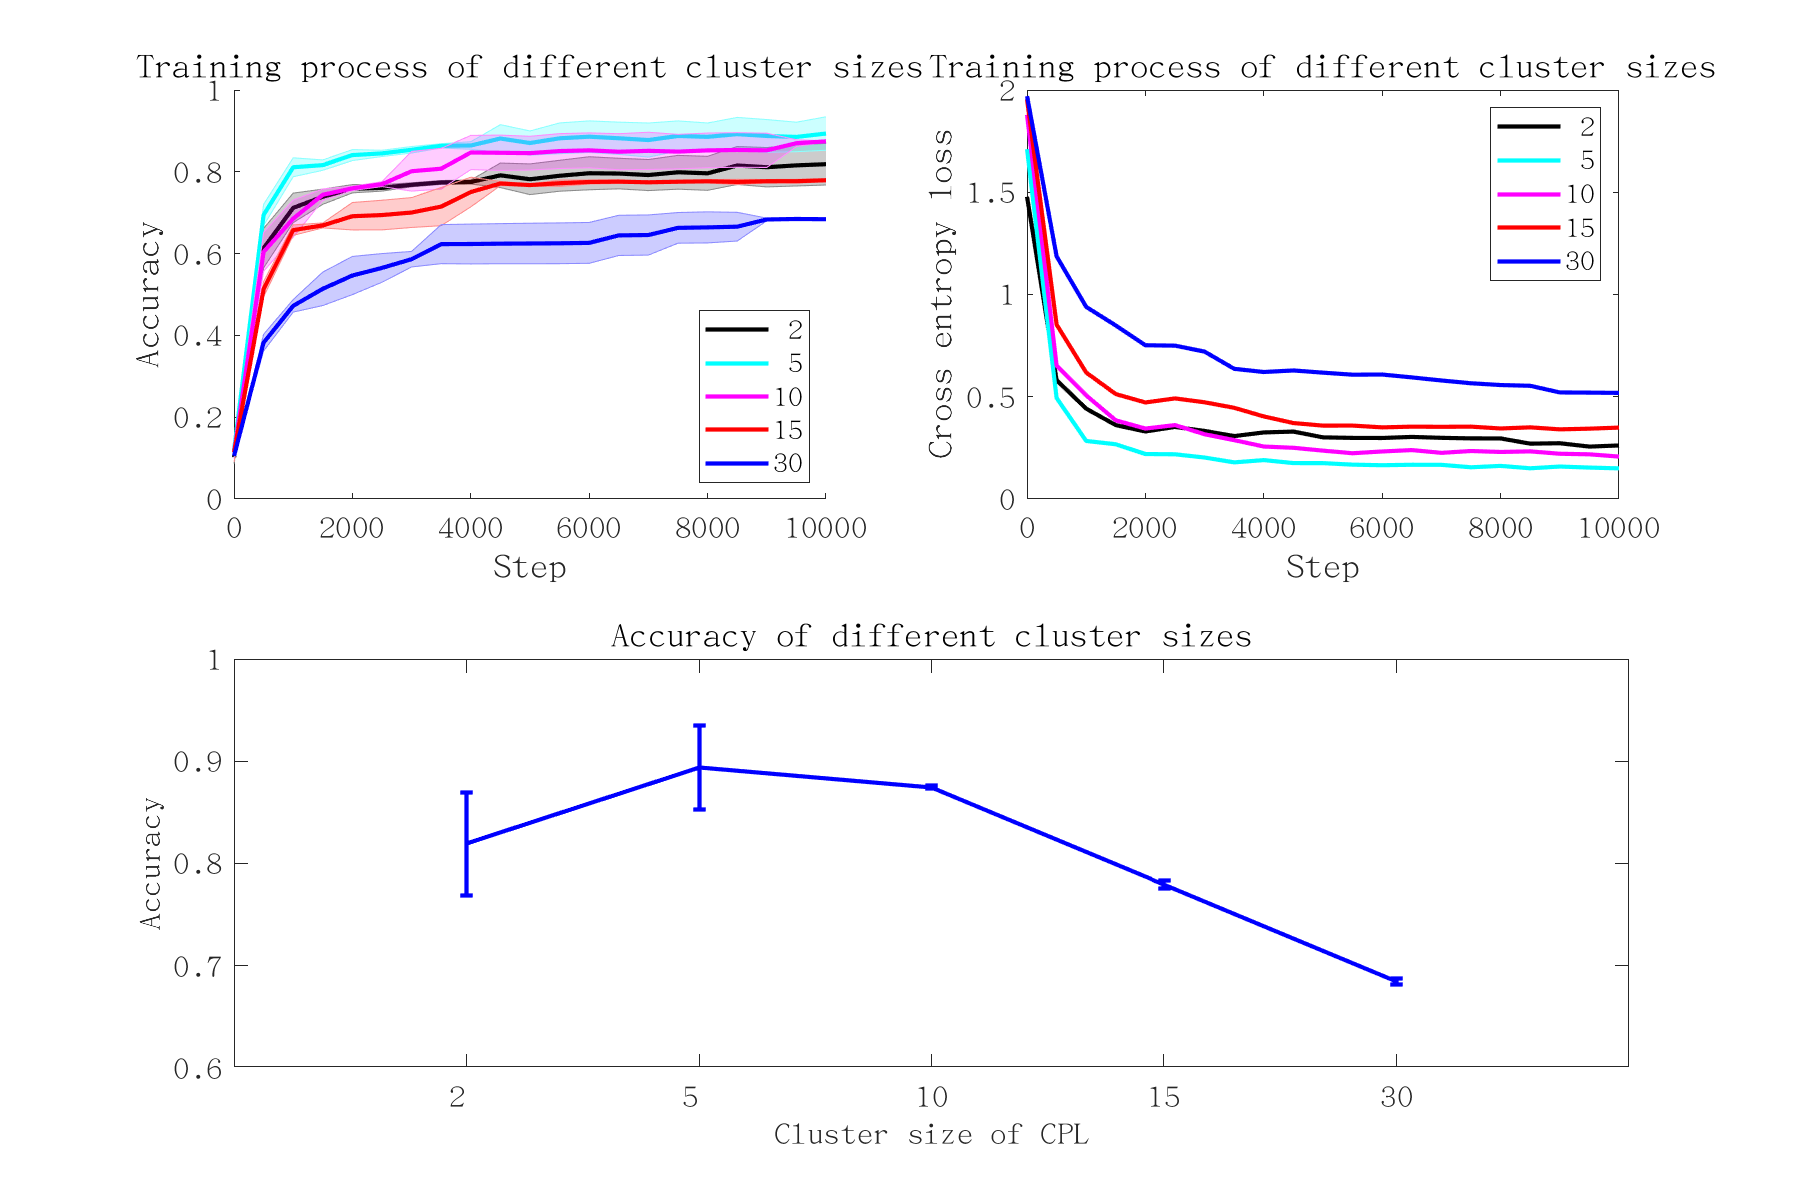
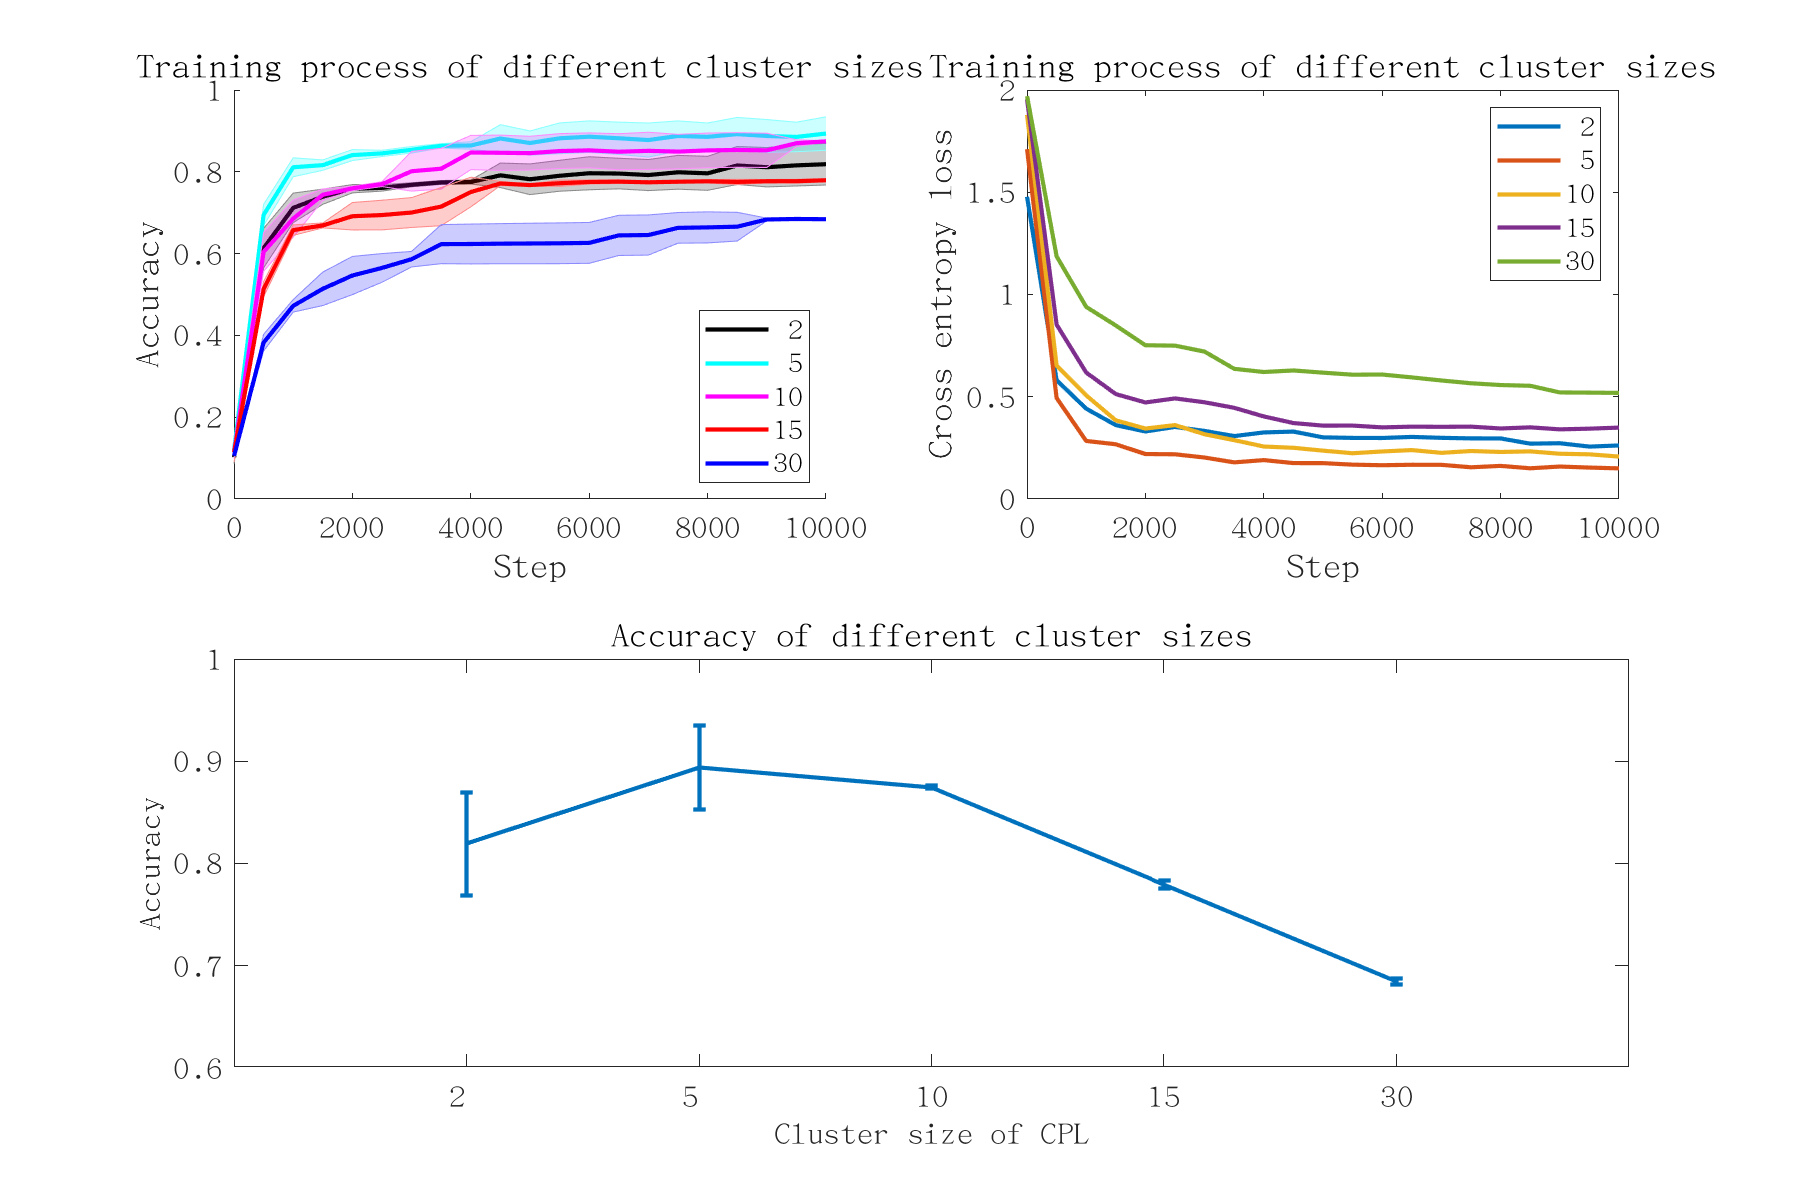
add

diff --git a/experiment/mnist/train_history/plot_cluster_size.m b/experiment/mnist/train_history/plot_cluster_size.m
@@ -51,7 +51,7 @@ set(gca, "FontSize", fig_para.fontsize);
 title("Training process of different cluster sizes");
 subplot(2,2,2);
 for i=1:len
-    plot(step_index,loss_all_mean(i,:),"LineWidth",fig_para.linewidth,"Color",colors(i));
+    plot(step_index,loss_all_mean(i,:),"LineWidth",fig_para.linewidth,"Color",fig_para.colors(i,:));
     hold on;
 end
 ylabel("Cross entropy loss","FontSize", fig_para.fontsize);
@@ -60,7 +60,7 @@ set(gca, "FontSize", fig_para.fontsize);
 title("Training process of different cluster sizes");
 legend(num2str(cluster_sizes),"Location","NorthEast");
 subplot(2,2,[3 4]);
-errorbar(1:size(cluster_sizes,1),acc_final_mean,acc_final_std,"-b","LineWidth",fig_para.linewidth)
+errorbar(1:size(cluster_sizes,1),acc_final_mean,acc_final_std,"Color",fig_para.colors(1,:),"LineWidth",fig_para.linewidth)
 axis([0,6,0.6,1])
 set(gca,"XTick",1:size(cluster_sizes,1));
 set(gca,"XTickLabel",cluster_sizes);
